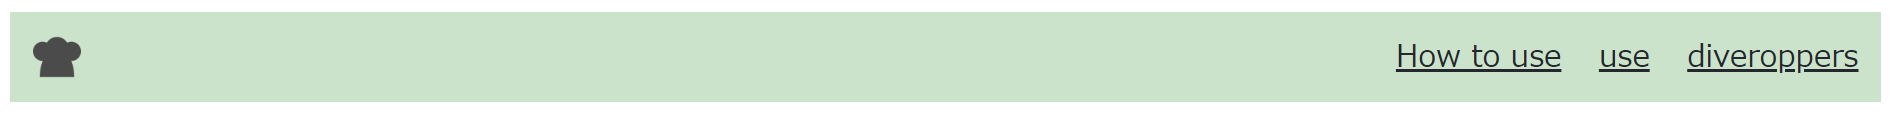
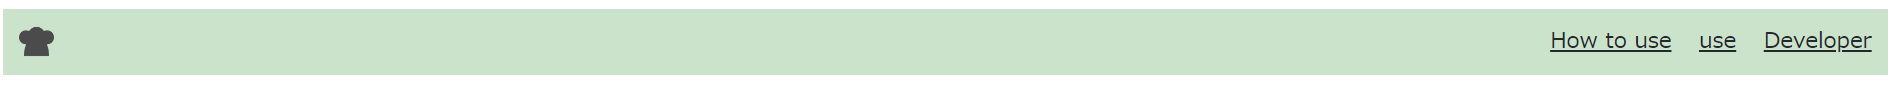
誤字修正

Changed region(s): [[0.0, 0.1149, 0.9984, 0.8966], [0.7176, 0.3678, 0.9984, 0.6437]]

diff --git a/shared_dir/templates/front.html b/shared_dir/templates/front.html
@@ -26,7 +26,7 @@
                 <ul>
                     <li><a href="#How2use">How to use</a></li>
                     <li><a href="/home">use</a></li>
-                    <li><a href="#diveroppers">diveroppers</a></li>
+                    <li><a href="#Developer">Developer</a></li>
                 </ul>
             </nav>
         </header>
@@ -56,8 +56,8 @@
                       <li>手順 4: uploadを選択</li>
                     </ol>
                 </div>
-            <section id="diveroppers" class="wrapper">
-                <h1 class="section-title">Diveroppers</h1>
+            <section id="Developer" class="wrapper">
+                <h1 class="section-title">Developer</h1>
                 <div class="content">                      
                         <div class="item">
                           <img src="images/higashi_profile.png" alt="No Image">

diff --git a/shared_dir/templates/front_style.css b/shared_dir/templates/front_style.css
@@ -109,20 +109,20 @@ use
   
 
 /*-------------------------------------------
-diveroppers
+Developer
 -------------------------------------------*/
-#diveroppers {
+#Developer {
     padding: 20px;
     background-color: #f2f2f2;
 }
-#diveroppers .section-title{
+#Developer .section-title{
     margin-bottom: 5px;
     text-align: center;
     font-size: 50px;
     text-decoration: underline
 }
 
-#diveroppers img{
+#Developer img{
     width: 80px;
     height: 80px;
     object-fit: cover;
